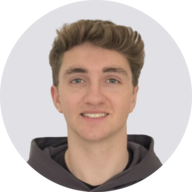
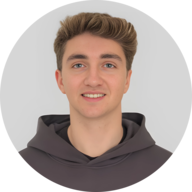
Mise à jour des images

Changed region(s): [[0.0938, 0.0625, 0.9062, 1.0]]

diff --git a/index.html b/index.html
@@ -16,19 +16,18 @@
     <meta property="og:description"
           content="Welcome to Noé Henchoz's portfolio. Explore information about me, my skills in computer development, and browse through my projects on this website."/>
     <meta property="og:image"
-          content="https://res.cloudinary.com/dpu5ywrox/image/upload/v1707606508/pebj5yricztxibeq54fa.png"/>
+          content="https://res.cloudinary.com/dpu5ywrox/image/upload/v1711310789/rklafhfb1zeo3sfkb7br.png"/>
     <meta property="twitter:card" content="summary_large_image"/>
     <meta property="twitter:url" content="https://henchoz.org/"/>
     <meta property="twitter:title" content="Noé Henchoz - Portfolio"/>
     <meta property="twitter:description"
           content="Welcome to Noé Henchoz's portfolio. Explore information about me, my skills in computer development, and browse through my projects on this website."/>
     <meta property="twitter:image"
-          content="https://res.cloudinary.com/dpu5ywrox/image/upload/v1707606508/pebj5yricztxibeq54fa.png"/>
+          content="https://res.cloudinary.com/dpu5ywrox/image/upload/v1711310789/rklafhfb1zeo3sfkb7br.png"/>
     <link rel="apple-touch-icon" sizes="180x180" href="/apple-touch-icon.png">
     <link rel="icon" type="image/png" sizes="32x32" href="/favicon-32x32.png">
     <link rel="icon" type="image/png" sizes="16x16" href="/favicon-16x16.png">
     <link rel="manifest" href="/site.webmanifest">
-    <link rel="mask-icon" href="/safari-pinned-tab.svg" color="#5bbad5">
     <meta name="msapplication-TileColor" content="#da532c">
     <meta name="theme-color" content="#ffffff">
     <link rel="preconnect" href="https://fonts.googleapis.com"/>

diff --git a/src/pages/Home.tsx b/src/pages/Home.tsx
@@ -30,7 +30,7 @@ const Home = () => {
                     animate={{ scale: 1, opacity: 1, transition: { type: 'spring', stiffness: 30, delay: 0.8 } }}
         >
           <Tilt glareEnable={true} tiltMaxAngleX={10} tiltMaxAngleY={10} perspective={800} glareColor="transparent" className="w-7/12 z-20">
-            <img src="/avatar.png" alt="Avatar" className="w-full h-full rounded-full hover:scale-105 transition-all"/>
+            <img src="/AvatarAI.png" alt="Avatar" className="w-full h-full rounded-full hover:scale-105 transition-all"/>
           </Tilt>
         </motion.div>
       </div>
